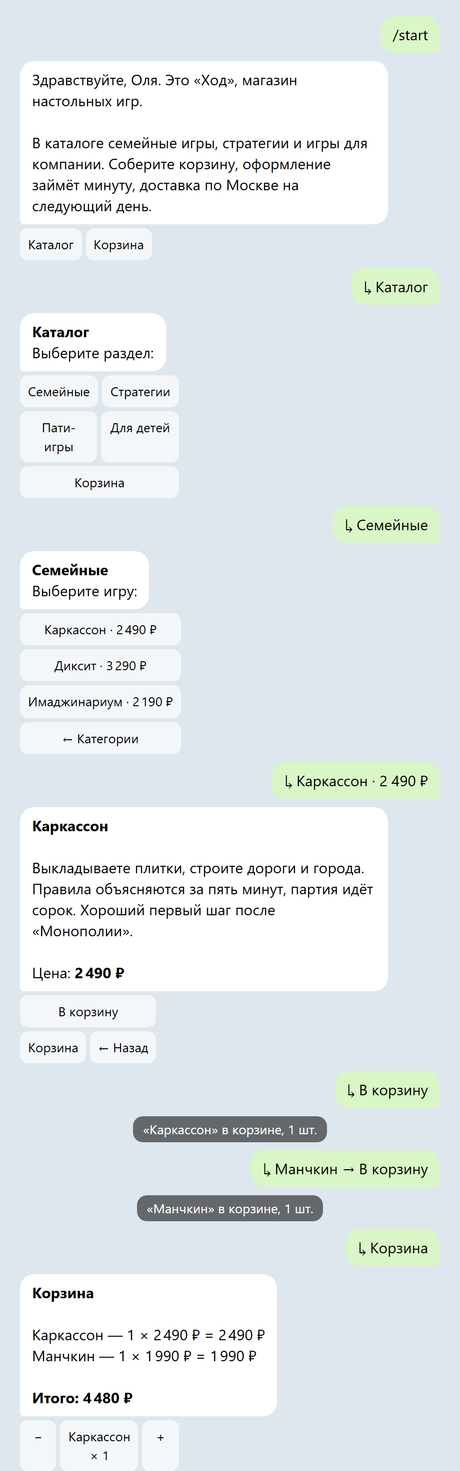
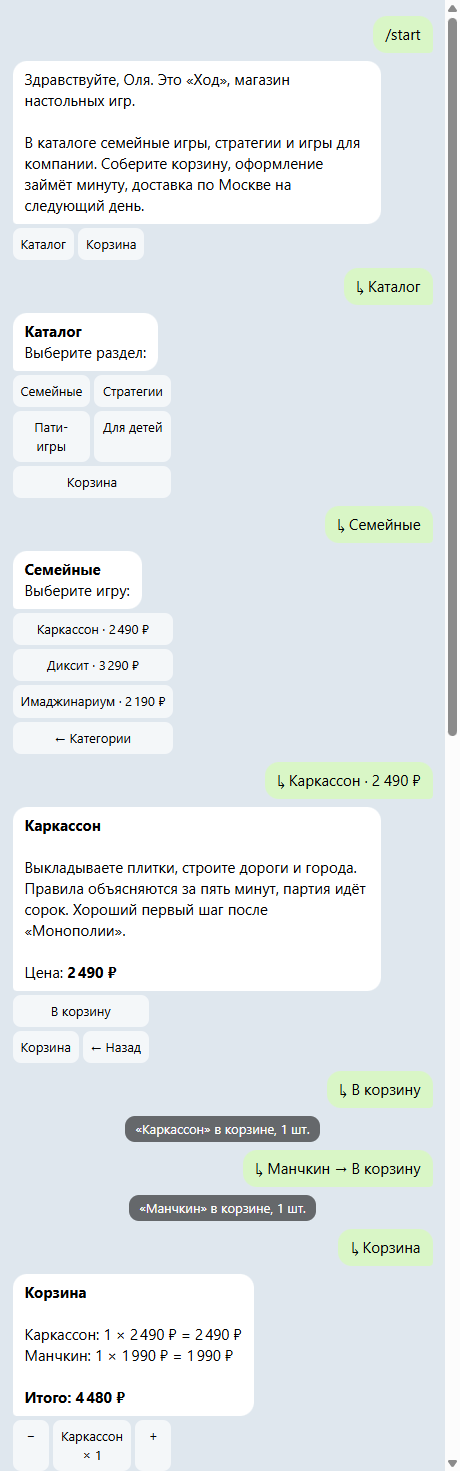
Clean bot messages and keep empty settings usable

diff --git a/tests/test_bot.py b/tests/test_bot.py
@@ -15,7 +15,7 @@ async def fill_cart_and_checkout(h: Harness) -> None:
     await h.press(ProductCB(action="add", id=1).pack())
     await h.press(CartCB(action="checkout").pack())
     await h.send("Ольга")
-    await h.send("8 (900) 123-45-67")
+    await h.send("8 (000) 000-00-00")
     await h.send("Солодовый переулок, 7, кв. 3")
     await h.press("confirm:yes")
 
@@ -73,7 +73,7 @@ async def test_checkout_rejects_bad_phone_and_short_address(harness):
     await harness.send("Ольга")
     await harness.send("позвоните мне")
     assert "Не получилось разобрать номер" in harness.last_text()
-    await harness.send("+7 900 123 45 67")
+    await harness.send("+7 000 000 00 00")
     await harness.send("дом")
     assert "Адрес слишком короткий" in harness.last_text()
 
@@ -81,7 +81,7 @@ async def test_checkout_rejects_bad_phone_and_short_address(harness):
 async def test_full_order_with_demo_payment(harness, shop):
     await fill_cart_and_checkout(harness)
     [order] = shop.orders()
-    assert order.status == "new" and order.total == 2 * 2490 and order.phone == "+79001234567"
+    assert order.status == "new" and order.total == 2 * 2490 and order.phone == "+70000000000"
     assert shop.cart(CUSTOMER) == []
     assert "Оплатить" in harness.buttons()[0][0]
 
@@ -129,9 +129,9 @@ async def test_stats_only_for_admin(harness):
 
 
 @pytest.mark.parametrize(("raw", "expected"), [
-    ("+7 (900) 123-45-67", "+79001234567"),
-    ("89001234567", "+79001234567"),
-    ("8 900 123 45 67", "+79001234567"),
+    ("+7 (000) 000-00-00", "+70000000000"),
+    ("80000000000", "+70000000000"),
+    ("8 000 000 00 00", "+70000000000"),
     ("123", None),
     ("+1 900 123 45 67", None),
 ])
@@ -149,3 +149,10 @@ def test_config_errors(tmp_path):
     cfg = settings.load(missing, environ={"BOT_TOKEN": "123456789:test-token-for-unit-tests-only-xxxx",
                                           "ADMIN_IDS": "1, 2", "DEMO_PAYMENTS": "0"})
     assert cfg.admins == {1, 2} and not cfg.demo_payments
+    template = tmp_path / "template.env"
+    template.write_text(
+        "BOT_TOKEN=123456789:test-token-for-unit-tests-only-xxxx\nDEMO_PAYMENTS=\nDB_PATH=\n",
+        encoding="utf-8",
+    )
+    defaults = settings.load(template, environ={})
+    assert defaults.demo_payments and defaults.db_path.as_posix() == "data/shop.db"

diff --git a/src/shopbot/handlers/orders.py b/src/shopbot/handlers/orders.py
@@ -29,7 +29,7 @@ class Checkout(StatesGroup):
 
 
 def normalize_phone(text: str) -> str | None:
-    """+7 (900) 123-45-67, 8 900 123 45 67 and 89001234567 all become +79001234567."""
+    """Accept domestic and international prefixes and remove separators."""
     digits = re.sub(r"[\s()\-]", "", text)
     if re.fullmatch(r"(\+7|8)\d{10}", digits):
         return "+7" + digits[-10:]
@@ -37,7 +37,7 @@ def normalize_phone(text: str) -> str | None:
 
 
 def order_text(shop: Shop, order: Order, for_admin: bool = False) -> str:
-    items = "\n".join(f"{escape(t)} — {q} × {rub(p)}" for t, p, q in shop.order_items(order.id))
+    items = "\n".join(f"{escape(t)}: {q} × {rub(p)}" for t, p, q in shop.order_items(order.id))
     lines = [f"<b>Заказ №{order.id}</b> · {STATUSES[order.status]}", "", items, f"Итого: <b>{rub(order.total)}</b>"]
     if for_admin:
         who = f"@{escape(order.username)}" if order.username else f"id {order.user_id}"
@@ -61,7 +61,7 @@ async def checkout(cb: CallbackQuery, state: FSMContext, shop: Shop) -> None:
         return
     await state.set_state(Checkout.name)
     if isinstance(cb.message, Message):
-        await cb.message.answer("Как к вам обращаться? Напишите имя получателя.\n\n/cancel — передумали")
+        await cb.message.answer("Как к вам обращаться? Напишите имя получателя.\n\n/cancel: отменить оформление")
     await cb.answer()
 
 
@@ -75,7 +75,7 @@ async def cancel(message: Message, state: FSMContext) -> None:
 async def got_name(message: Message, state: FSMContext) -> None:
     name = (message.text or "").strip()
     if not 2 <= len(name) <= 60:
-        await message.answer("Имя — от 2 до 60 символов. Напишите ещё раз:")
+        await message.answer("В имени должно быть от 2 до 60 символов. Напишите ещё раз:")
         return
     await state.update_data(name=name)
     await state.set_state(Checkout.phone)

diff --git a/src/shopbot/config.py b/src/shopbot/config.py
@@ -49,12 +49,12 @@ def load(env_file: Path | str = ".env", environ: dict[str, str] | None = None) -
     for part in filter(None, (p.strip() for p in env.get("ADMIN_IDS", "").split(","))):
         if not part.isdigit():
             raise ConfigError(
-                f"ADMIN_IDS — числовые id через запятую, а {part!r} не число. Свой id покажет @userinfobot")
+                f"Укажите в ADMIN_IDS числовые id через запятую. {part!r} не число. Свой id покажет @userinfobot")
         admins.add(int(part))
 
-    demo = env.get("DEMO_PAYMENTS", "1").strip().lower()
+    demo = (env.get("DEMO_PAYMENTS") or "1").strip().lower()
     if demo not in ("1", "0", "true", "false", "yes", "no"):
-        raise ConfigError("DEMO_PAYMENTS — 1 или 0")
+        raise ConfigError("Укажите в DEMO_PAYMENTS 1 или 0")
 
     return Config(
         token=token,

diff --git a/src/shopbot/db.py b/src/shopbot/db.py
@@ -58,7 +58,7 @@ CATALOG: dict[str, list[tuple[str, str, int]]] = {
     ],
     "Стратегии": [
         ("Колонизаторы", "Ресурсы, дороги, торговля с соседями. Классика, с которой многие начинают "
-         "серьёзные настолки. На 3–4 игроков.", 4290),
+         "серьёзные настолки. На 3-4 игроков.", 4290),
         ("Зельеварение", "Собираете ингредиенты и варите зелья раньше соперников. Карточная стратегия "
          "на полчаса.", 3690),
     ],

diff --git a/src/shopbot/handlers/shop.py b/src/shopbot/handlers/shop.py
@@ -33,7 +33,7 @@ async def show(cb: CallbackQuery, text: str, markup: InlineKeyboardMarkup | None
 def cart_text(lines: list[Line]) -> str:
     if not lines:
         return "<b>Корзина пуста</b>\n\nЗагляните в каталог."
-    rows = [f"{escape(ln.product.title)} — {ln.qty} × {rub(ln.product.price)} = {rub(ln.sum)}" for ln in lines]
+    rows = [f"{escape(ln.product.title)}: {ln.qty} × {rub(ln.product.price)} = {rub(ln.sum)}" for ln in lines]
     return "<b>Корзина</b>\n\n" + "\n".join(rows) + f"\n\n<b>Итого: {rub(sum(ln.sum for ln in lines))}</b>"
 
 

diff --git a/src/shopbot/handlers/admin.py b/src/shopbot/handlers/admin.py
@@ -29,7 +29,7 @@ async def stats(message: Message, shop: Shop, config: Config) -> None:
     count, revenue, top = shop.stats()
     lines = [f"<b>Оплаченные заказы:</b> {count}", f"<b>Выручка:</b> {rub(revenue)}"]
     if top:
-        lines += ["", "Чаще всего берут:"] + [f"{i}. {title} — {sold} шт." for i, (title, sold) in enumerate(top, 1)]
+        lines += ["", "Чаще всего берут:"] + [f"{i}. {title}: {sold} шт." for i, (title, sold) in enumerate(top, 1)]
     await message.answer("\n".join(lines))
 
 

diff --git a/scripts/dialog.py b/scripts/dialog.py
@@ -75,7 +75,7 @@ async def main(out: Path) -> None:
     await tap("Корзина", "cart")
     await tap("Оформить заказ", CartCB(action="checkout").pack())
     await say("Оля")
-    await say("+7 900 000-00-00")
+    await say("+7 000 000-00-00")
     await say("Солодовый переулок, 7, кв. 3, домофон 3К")
     await tap("Всё верно", "confirm:yes")
     order = shop.orders(user_id=CUSTOMER)[0]

diff --git a/README.md b/README.md
@@ -12,7 +12,7 @@ Telegram shop bot on aiogram 3 and SQLite: catalog, cart, checkout, admin notifi
 <img src="docs/dialog-2.png" width="320" alt="Оформление и демо-оплата заказа">
 </p>
 
-Переписка снята не с телефона: `scripts/dialog.py` прогоняет сценарий через настоящие хендлеры бота без Telegram и рисует ответы в HTML. Тексты, кнопки и всплывающие подсказки — ровно то, что бот отправил бы в чат.
+Переписка снята не с телефона: `scripts/dialog.py` прогоняет сценарий через настоящие хендлеры бота без Telegram и рисует ответы в HTML. Тексты, кнопки и всплывающие подсказки совпадают с тем, что бот отправил бы в чат.
 
 ## Возможности
 
@@ -20,7 +20,7 @@ Telegram shop bot on aiogram 3 and SQLite: catalog, cart, checkout, admin notifi
 - Оформление в четыре шага: имя, телефон (любой формат, приводится к `+7XXXXXXXXXX`), адрес, подтверждение. `/cancel` прерывает оформление, корзина остаётся.
 - Демо-оплата: кнопка «Оплатить (демо)» переводит заказ в «оплачен», настоящих денег нет. С `DEMO_PAYMENTS=0` кнопки нет, заказ сразу уходит менеджеру.
 - Администраторы из `ADMIN_IDS` получают заказ с контактами и кнопками «Передан в доставку» и «Отменить», покупатель получает уведомление.
-- `/orders` — последние заказы покупателя, `/stats` и `/all_orders` — только для администраторов.
+- `/orders` показывает последние заказы покупателя. `/stats` и `/all_orders` доступны только администраторам.
 
 ## Безопасность
 
@@ -28,7 +28,7 @@ Telegram shop bot on aiogram 3 and SQLite: catalog, cart, checkout, admin notifi
 - SQL только с параметрами.
 - Действия администратора проверяют id. Попытка не-админа записывается в лог.
 - Оплатить или отменить заказ может только его владелец. Статус меняется только из ожидаемого состояния, поэтому двойное нажатие не оплатит и не уведомит дважды.
-- Корзина и callback data проверяются по базе: несуществующий товар или раздел даёт сообщение, а не исключение.
+- Корзина и callback data проверяются по базе: несуществующий товар или раздел вызывает сообщение с объяснением.
 
 ## Как запустить
 
